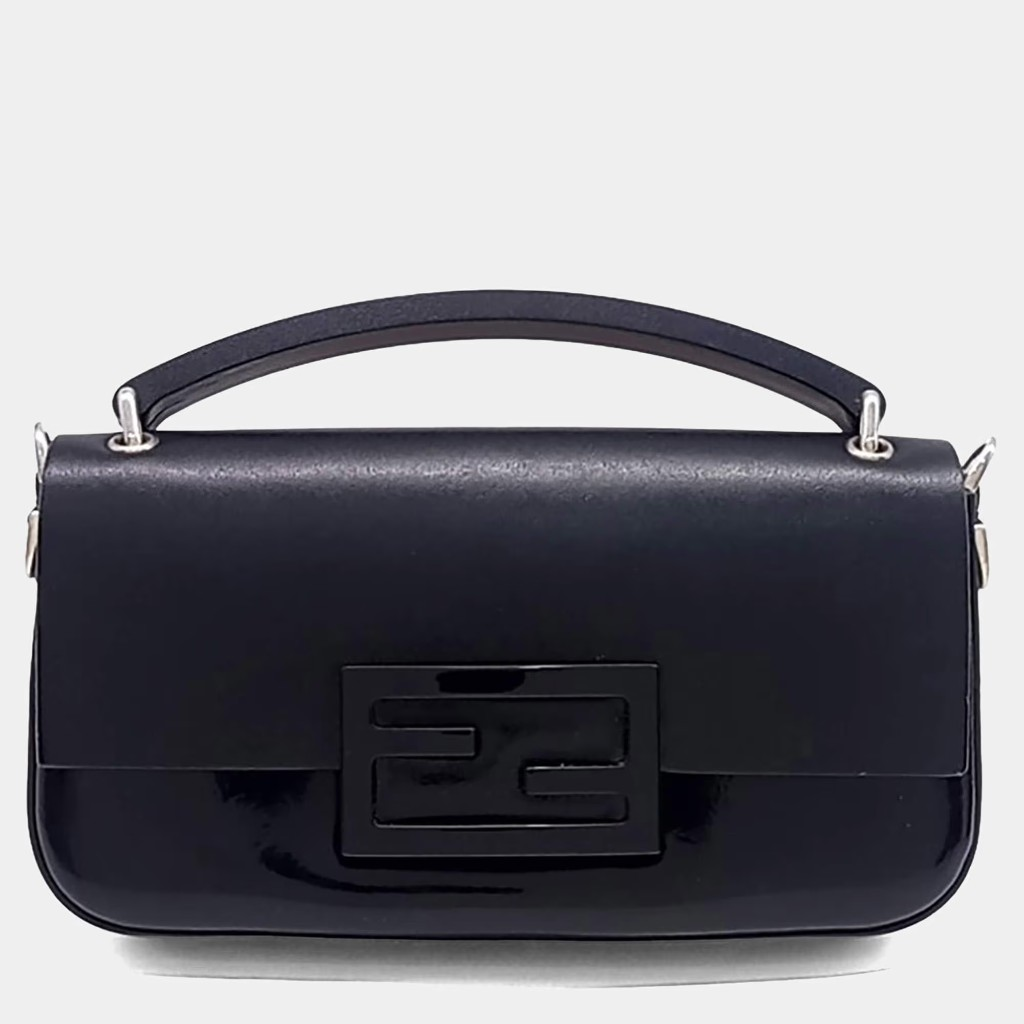
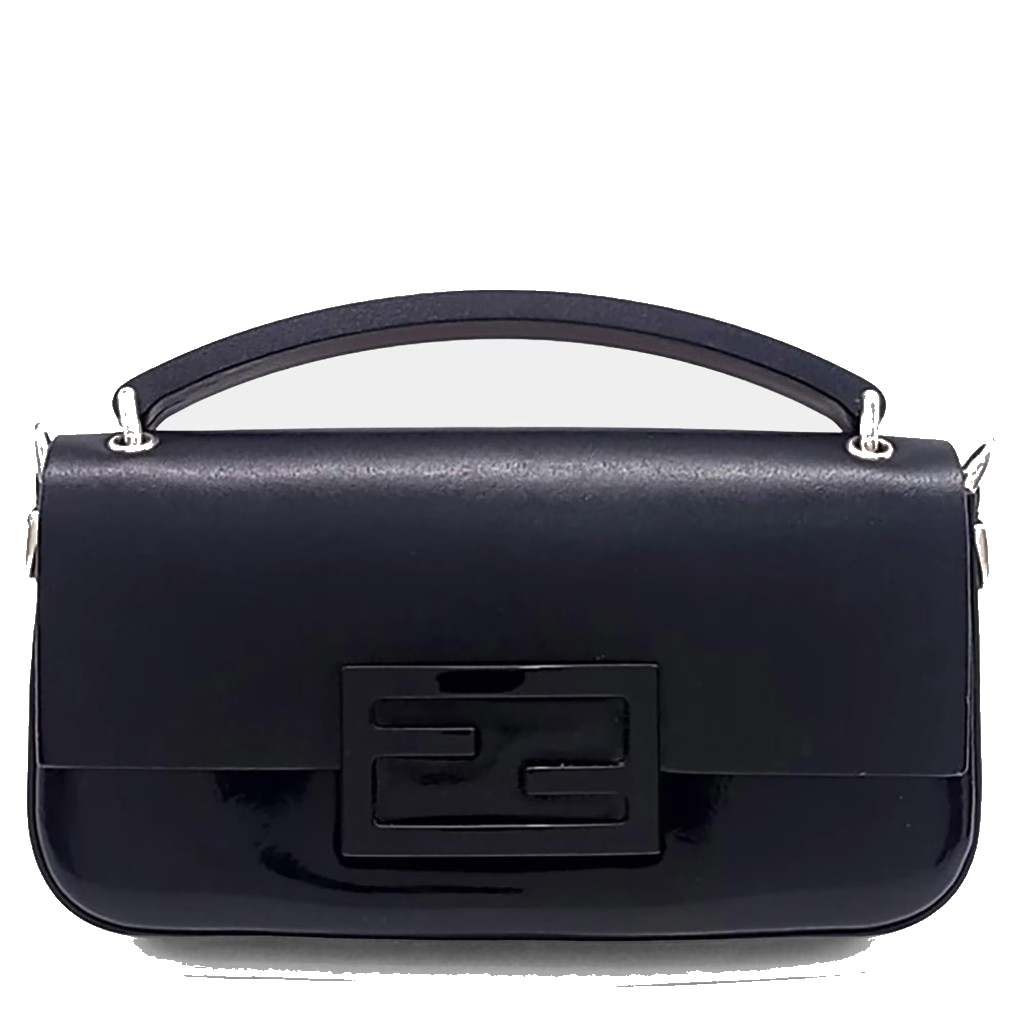
Use white backgrounds for Fendi bag photos.
Black bags read more clearly on white, including under the handle gaps.

diff --git a/figma-vintage-clothing/src/app/components/HomePage.tsx b/figma-vintage-clothing/src/app/components/HomePage.tsx
@@ -133,7 +133,7 @@ export const ALL_PRODUCTS: Product[] = [
       fendiBagInteriorImg,
       fendiBagImg,
     ],
-    imageBackground: "#000000",
+    imageBackground: "#FFFFFF",
     availableSoon: true,
   },
   {
